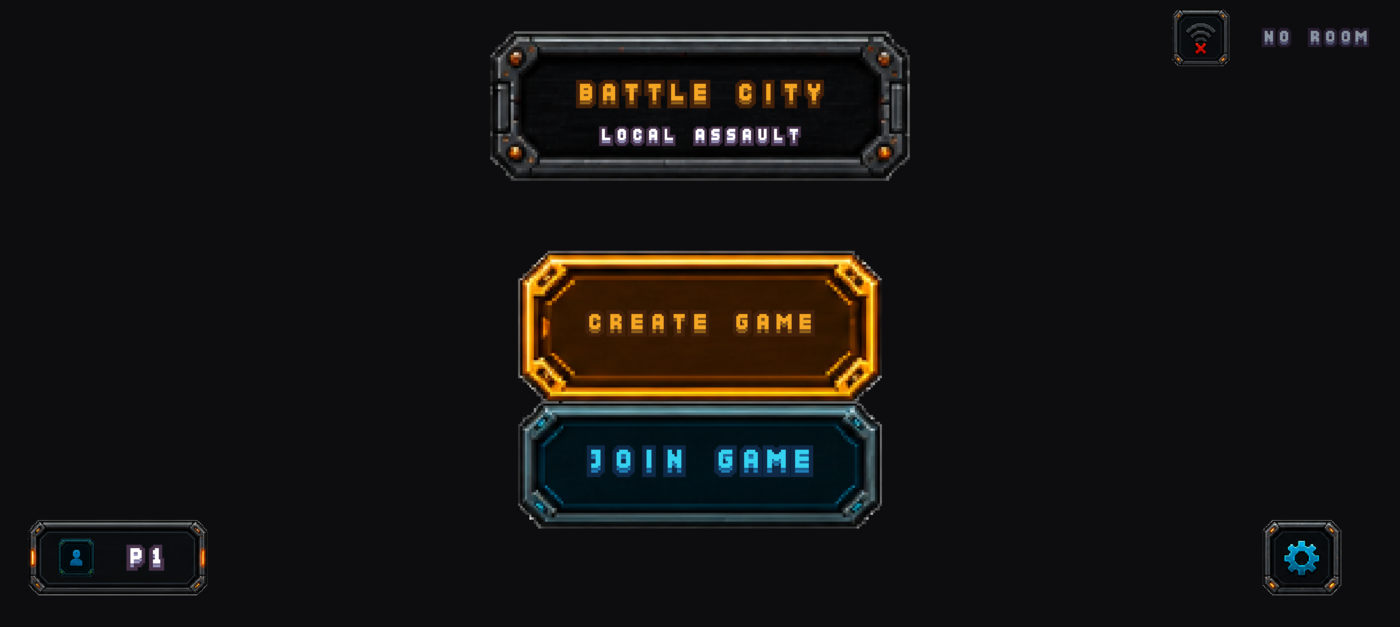
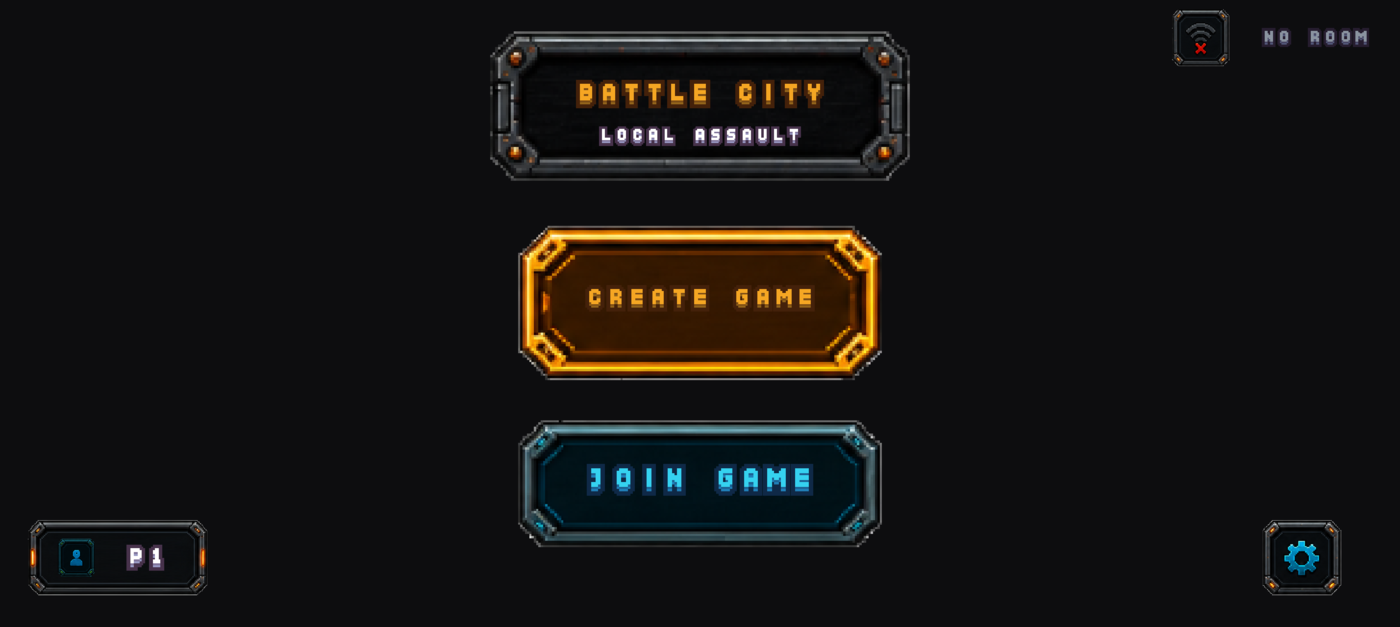
fix(phase9): 메뉴 단추 간격을 벌리고 설정을 단독 화면으로
CREATE GAME 과 JOIN GAME 이 맞닿아 하나로 보였다. 손가락 하나가 들어갈 만큼 띄웠다.

설정은 메뉴 위에 덮여 있었다. 뒤 화면이 비쳐 보이면 어느 쪽을 누르는 것인지
헷갈리고, 판 밖으로 삐져나온 글자가 설정의 일부처럼 읽힌다. 열리면 혼자 화면을
다 쓰도록 하고 판도 가장자리까지 늘렸다.

Changed region(s): [[0.3686, 0.3333, 0.645, 0.8788]]

diff --git a/app/src/main/kotlin/com/kophas/battlecity/game/SettingsScene.kt b/app/src/main/kotlin/com/kophas/battlecity/game/SettingsScene.kt
@@ -217,7 +217,7 @@ class SettingsScene(private val catalog: SpriteCatalog) {
      * 그림 비율대로만 놓으면 두 칸이 좁아 이름표와 조작기가 겹치고, 통째로 늘리면
      * 모서리 장식이 부풀어 오른다. 끝을 그대로 두고 가운데만 늘리면 둘 다 피한다.
      */
-    private fun panelRect() = ui.centeredRect(0.03f, PANEL_WIDTH, PANEL_UNITS)
+    private fun panelRect() = ui.centeredRect(PANEL_TOP, PANEL_WIDTH, PANEL_UNITS)
 
     private fun column(side: Int): Float {
         val panel = panelRect()
@@ -534,8 +534,10 @@ class SettingsScene(private val catalog: SpriteCatalog) {
         // 오른쪽 칸은 항목이 적어 아래를 비운다. 스피커 그림으로 채운다.
         private const val ROW_BGM = 1
         private const val ROW_SFX = 2
-        private const val PANEL_UNITS = 12.6f
-        private const val PANEL_WIDTH = 0.88f
+        // 설정은 혼자 화면을 다 쓴다. 판을 화면 가장자리까지 늘린다.
+        private const val PANEL_TOP = 0.025f
+        private const val PANEL_UNITS = 13.4f
+        private const val PANEL_WIDTH = 0.94f
 
         /** 조작기가 차지하는 칸의 비율. 나머지가 이름표 자리다. */
         private const val CONTROL_WIDTH = 0.5f

diff --git a/app/src/main/kotlin/com/kophas/battlecity/game/MainMenuScene.kt b/app/src/main/kotlin/com/kophas/battlecity/game/MainMenuScene.kt
@@ -157,9 +157,10 @@ class MainMenuScene(private val catalog: SpriteCatalog) {
         return ScreenUi.Rect(ui.width * 0.02f, base.y, width, base.height)
     }
 
-    private fun createRect() = ui.fitByWidth(catalog.menu.primary, BUTTON_WIDTH, 0.40f)
+    // 두 단추를 붙여 두면 하나로 보이고 잘못 누른다. 손가락 하나가 들어갈 만큼 띄운다.
+    private fun createRect() = ui.fitByWidth(catalog.menu.primary, BUTTON_WIDTH, CREATE_TOP)
 
-    private fun joinRect() = ui.fitByWidth(catalog.menu.secondary, BUTTON_WIDTH, 0.64f)
+    private fun joinRect() = ui.fitByWidth(catalog.menu.secondary, BUTTON_WIDTH, JOIN_TOP)
 
     private fun settingsRect() = ui.fitByHeight(catalog.menu.settings, 1.7f, 0.83f, 0.93f)
 
@@ -167,6 +168,8 @@ class MainMenuScene(private val catalog: SpriteCatalog) {
         const val TITLE_TOP = 0.05f
         const val TITLE_WIDTH = 0.30f
         const val BUTTON_WIDTH = 0.26f
+        const val CREATE_TOP = 0.36f
+        const val JOIN_TOP = 0.67f
 
         // 판 그림에서 잰 자리. 제목판은 두 줄이 들어간다.
         const val TITLE_LINE1 = 0.42f

diff --git a/app/src/main/kotlin/com/kophas/battlecity/game/GameHost.kt b/app/src/main/kotlin/com/kophas/battlecity/game/GameHost.kt
@@ -562,6 +562,15 @@ class GameHost(
         if (width <= 0 || height <= 0) return
 
         batch.begin()
+        // 설정은 혼자 화면을 다 쓴다. 뒤에 메뉴가 비쳐 보이면 어느 쪽을 누르는
+        // 것인지 헷갈리고, 판 밖으로 삐져나온 글자가 설정의 일부처럼 읽힌다.
+        if (settingsOpen) {
+            settingsScene?.render(batch)
+            batch.end()
+            finishFrame()
+            return
+        }
+
         when (screen) {
             Screen.MENU -> menuScene?.render(batch)
 
@@ -575,10 +584,11 @@ class GameHost(
 
             Screen.RESULT -> resultScene?.render(batch)
         }
-        // 설정은 어느 화면 위에도 덮인다. 뒤 화면을 지우지 않는 편이 어디서 열었는지 안다.
-        if (settingsOpen) settingsScene?.render(batch)
         batch.end()
+        finishFrame()
+    }
 
+    private fun finishFrame() {
         if (batch.droppedSprites > 0) {
             Log.w(TAG, "스프라이트 ${batch.droppedSprites}개가 배치 상한을 넘어 버려졌다")
         }

diff --git a/docs/SCREENS.md b/docs/SCREENS.md
@@ -33,8 +33,9 @@
 `GameHost.screen` 하나가 지금 무엇을 그리고 손가락을 어디로 보낼지 정한다. 화면
 하나가 다른 화면의 사정을 알 필요가 없도록 갈림길은 전부 이 자리에 모았다.
 
-설정 화면만 예외다. 다른 화면 **위에** 덮이고 뒤 화면을 지우지 않는다. 어디서
-열었는지 보이는 편이 낫기 때문이다.
+설정 화면은 메뉴에서도 로비에서도 열리지만, 열리면 **혼자 화면을 다 쓴다.** 뒤 화면이
+비쳐 보이면 어느 쪽을 누르는 것인지 헷갈리고, 판 밖으로 삐져나온 글자가 설정의
+일부처럼 읽힌다.
 
 전투 화면으로 넘어가는 신호는 세션이 준다(`NetDriver.onMatchStarted`). 카운트다운이
 언제 끝나는지는 세션만 알고, 로비에서 기다리는 사람과 결과 화면에서 기다리는 사람이
